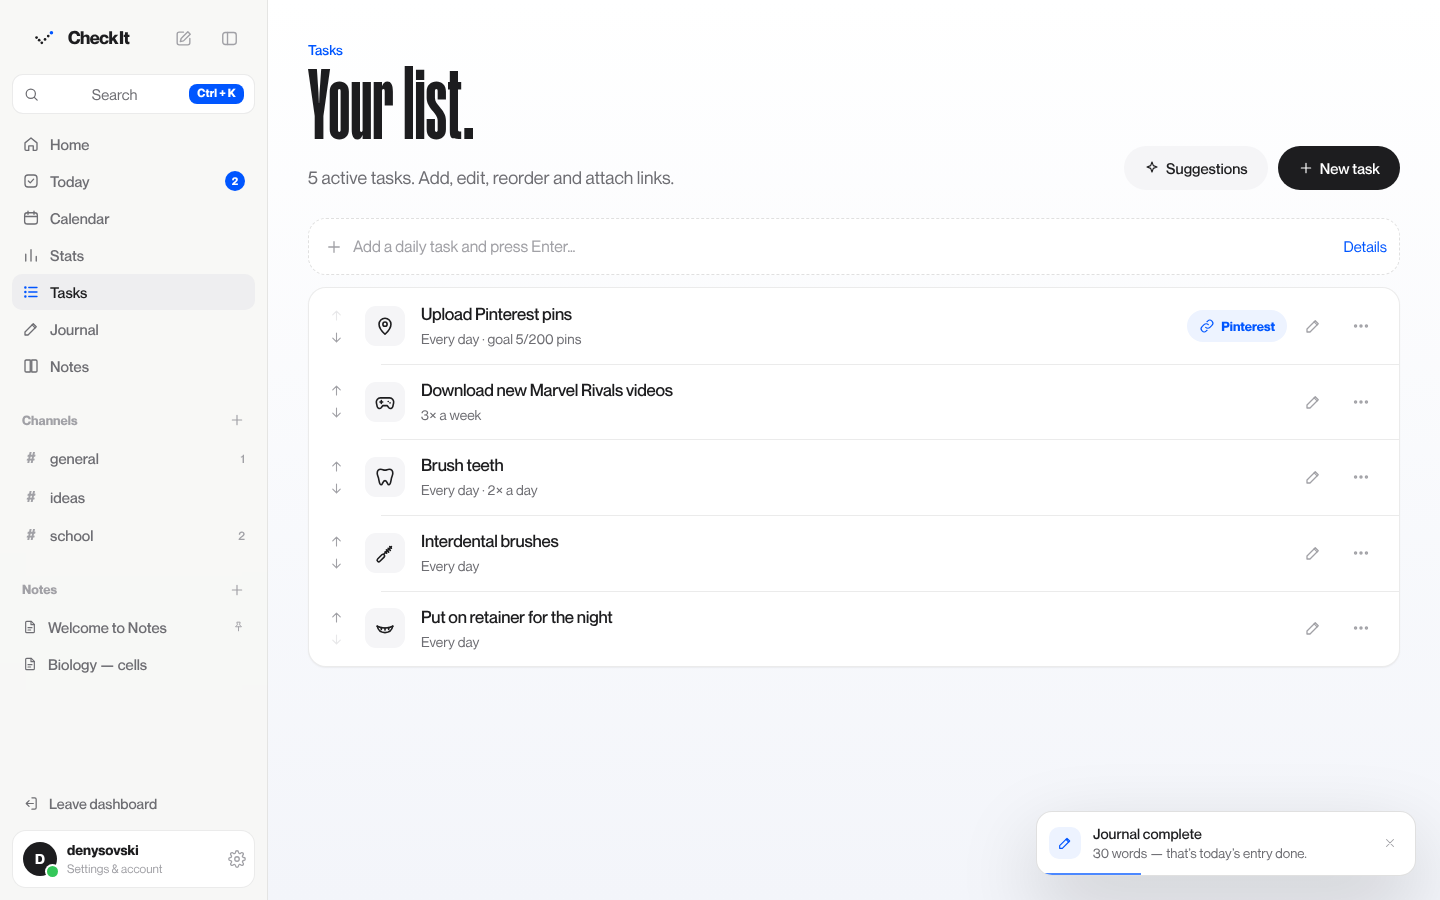
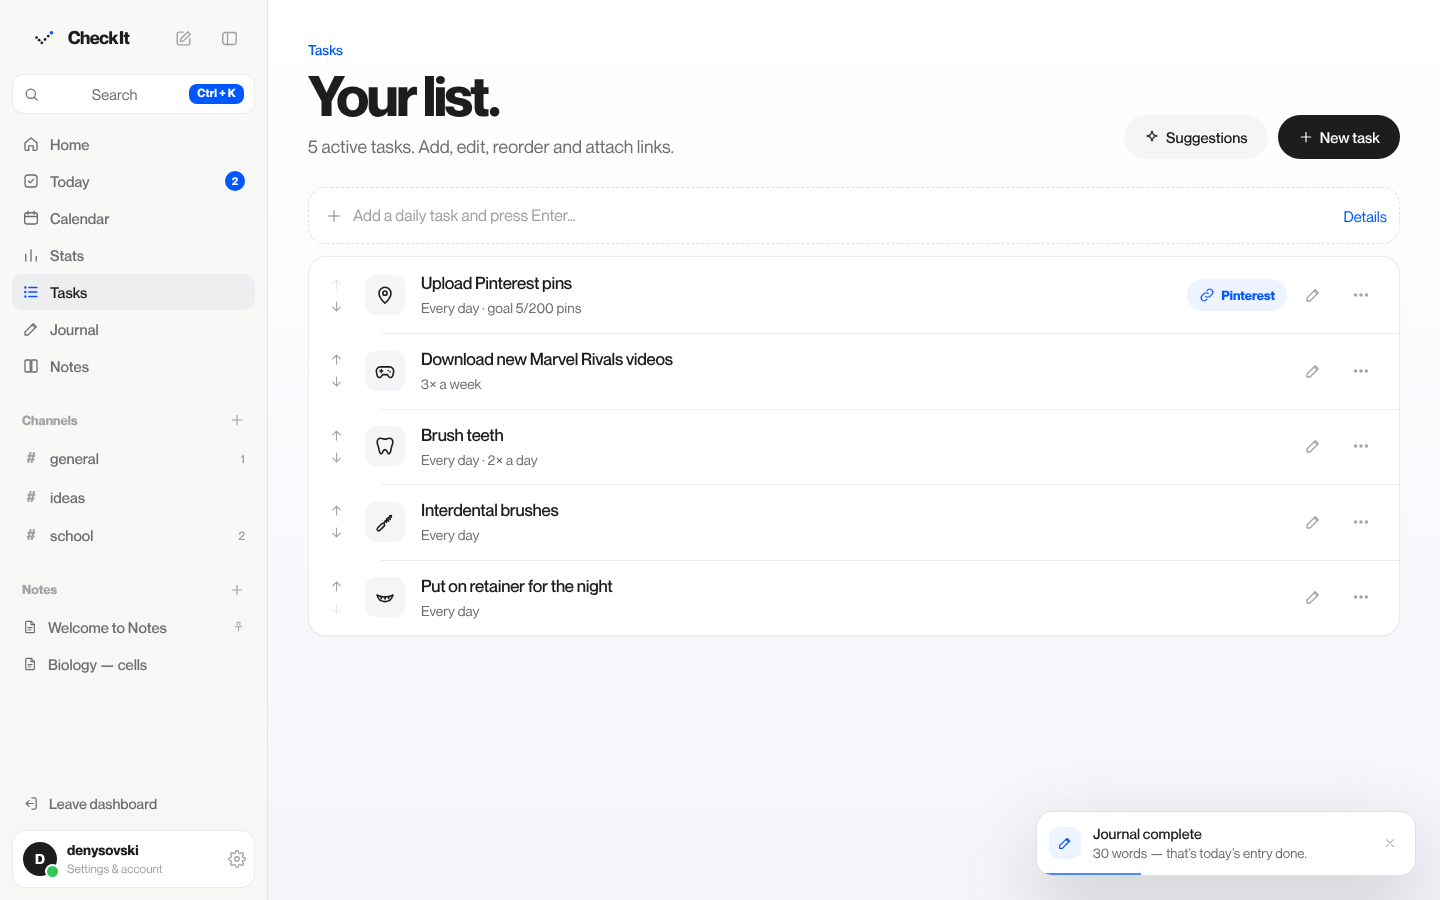
Use Satoshi for headings, titles and numbers again, Neue Montreal for text
- Headings, page titles, big numbers and the landing headline use Satoshi (Fontshare)
- All body text stays in self-hosted Neue Montreal
- Removed the Humane font files and resized display text for the wider face
- Refreshed README screenshots

Claude-Session: https://claude.ai/code/session_01Tmbk2fb3fpLgrpmgcPJTdW

diff --git a/css/style.css b/css/style.css
@@ -4,9 +4,6 @@
 @font-face { font-family: "Neue Montreal"; src: url("../assets/fonts/neuemontreal-400i.woff2") format("woff2"); font-weight: 400; font-style: italic; font-display: swap; }
 @font-face { font-family: "Neue Montreal"; src: url("../assets/fonts/neuemontreal-500.woff2") format("woff2"); font-weight: 500; font-style: normal; font-display: swap; }
 @font-face { font-family: "Neue Montreal"; src: url("../assets/fonts/neuemontreal-700.woff2") format("woff2"); font-weight: 700; font-style: normal; font-display: swap; }
-@font-face { font-family: "Humane"; src: url("../assets/fonts/humane-500.woff2") format("woff2"); font-weight: 500; font-style: normal; font-display: swap; }
-@font-face { font-family: "Humane"; src: url("../assets/fonts/humane-600.woff2") format("woff2"); font-weight: 600; font-style: normal; font-display: swap; }
-@font-face { font-family: "Humane"; src: url("../assets/fonts/humane-700.woff2") format("woff2"); font-weight: 700; font-style: normal; font-display: swap; }
 
 :root {
   --bg: #FFFFFF;
@@ -42,7 +39,7 @@
   --ink-hover: #000000;
   --blue-on-ink: #8FB1FF;
   --font: "Neue Montreal", -apple-system, BlinkMacSystemFont, "Segoe UI", system-ui, sans-serif;
-  --display: "Humane", "Neue Montreal", Impact, sans-serif;
+  --display: "Satoshi", "Neue Montreal", -apple-system, BlinkMacSystemFont, "Segoe UI", sans-serif;
   --mono: ui-monospace, SFMono-Regular, Menlo, monospace;
   --solid: #1D1D1F;
   --on-solid: #FFFFFF;
@@ -1898,3 +1895,49 @@ details.more .howto { margin-top: 10px; }
   .kpi b { font-size: 52px; }
 }
 .search.full, .loc-sheet .search { flex: none; }
+
+/* =====================================================================
+   v6 — Satoshi for headings, titles and numbers; Neue Montreal for text
+   ===================================================================== */
+.home-title, .large-title, .l-title, .l-h2, .num, .kpi b, .tr-label b, .r-num b, .dm-title, .dm-tile b, .fl-tile b, .cc-head b,
+.intro-title, .scene h2, .auth2-card h1, .js-kpis b, .imp-grid b, .rl-item b, .freq-num, .tile-card b.num, .jw-now .num {
+  font-family: var(--display); font-weight: 700; letter-spacing: -.045em;
+}
+.home-title { font-size: clamp(40px, 5.2vw, 72px); line-height: .98; gap: 2px; }
+.large-title { font-size: clamp(36px, 4.6vw, 56px); line-height: 1.02; letter-spacing: -.04em; }
+.tile-card b.num { font-size: 54px; line-height: .95; margin: 16px 0 6px; letter-spacing: -.05em; }
+.tile-card b.num i { font-size: .5em; letter-spacing: 0; }
+.kpi b { font-size: 40px; line-height: 1; }
+.tr-label b { font-size: 30px; line-height: 1; }
+.js-kpis b { font-size: 30px; line-height: 1; }
+.imp-grid b { font-size: 26px; line-height: 1.05; }
+.jw-now .num { font-size: 44px; line-height: 1; }
+.l-title { font-size: clamp(52px, 7vw, 104px); line-height: .98; letter-spacing: -.05em; }
+.l-h2 { font-size: clamp(40px, 5.4vw, 72px); line-height: 1; letter-spacing: -.045em; }
+.r-num b { font-size: 60px; line-height: .95; }
+.rl-item b { font-size: 40px; line-height: 1; }
+.cc-head b { font-size: 26px; line-height: 1; }
+.dm-title { font-size: 34px; line-height: 1; letter-spacing: -.04em; }
+.dm-tile b { font-size: 30px !important; line-height: 1 !important; }
+.fl-tile b { font-size: 38px; line-height: .95; }
+.intro-title { font-size: clamp(56px, 10vw, 112px); line-height: .95; letter-spacing: -.055em; }
+.scene h2 { font-size: clamp(34px, 5.2vw, 60px); line-height: 1.05; letter-spacing: -.04em; }
+.intro .freq-num { font-size: 120px; }
+.auth2-card h1 { font-size: 32px; line-height: 1.1; letter-spacing: -.035em; margin-bottom: 30px; }
+@media (max-width: 900px) {
+  .home-title { font-size: 44px; }
+  .tile-card b.num { font-size: 44px; }
+  .large-title { font-size: 40px; }
+}
+@media (max-width: 560px) {
+  .home-title { font-size: 38px; }
+  .large-title { font-size: 34px; }
+  .l-title { font-size: 50px; }
+  .l-h2 { font-size: 40px; }
+  .r-num b { font-size: 52px; }
+  .tile-card b.num { font-size: 40px; }
+  .kpi b { font-size: 34px; }
+  .auth2-card h1 { font-size: 28px; }
+}
+.fl-1 { left: 53%; top: 104px; }
+.fl-6 { left: 46%; top: 470px; }

diff --git a/index.html b/index.html
@@ -11,7 +11,8 @@
   <link rel="apple-touch-icon" href="assets/icon-180.png">
   <link rel="preload" href="assets/fonts/neuemontreal-400.woff2" as="font" type="font/woff2" crossorigin>
   <link rel="preload" href="assets/fonts/neuemontreal-500.woff2" as="font" type="font/woff2" crossorigin>
-  <link rel="preload" href="assets/fonts/humane-600.woff2" as="font" type="font/woff2" crossorigin>
+  <link rel="preconnect" href="https://api.fontshare.com" crossorigin>
+  <link href="https://api.fontshare.com/v2/css?f[]=satoshi@500,700,900&display=swap" rel="stylesheet">
   <link rel="stylesheet" href="css/style.css">
   <script>try{var p=JSON.parse(localStorage.getItem("checkit:prefs")||"{}"),t=p.theme||"system";if(t==="system")t=matchMedia("(prefers-color-scheme: dark)").matches?"dark":"light";document.documentElement.dataset.theme=t;if(p.motion===false)document.documentElement.classList.add("no-motion")}catch(e){}</script>
 </head>

diff --git a/sw.js b/sw.js
@@ -1,5 +1,5 @@
 // Check It service worker: offline cache + notifications.
-const CACHE = 'checkit-v6';
+const CACHE = 'checkit-v7';
 const ASSETS = [
   './', './index.html', './css/style.css', './manifest.webmanifest',
   './js/app.js', './js/store.js', './js/auth.js', './js/schedule.js', './js/icons.js',
